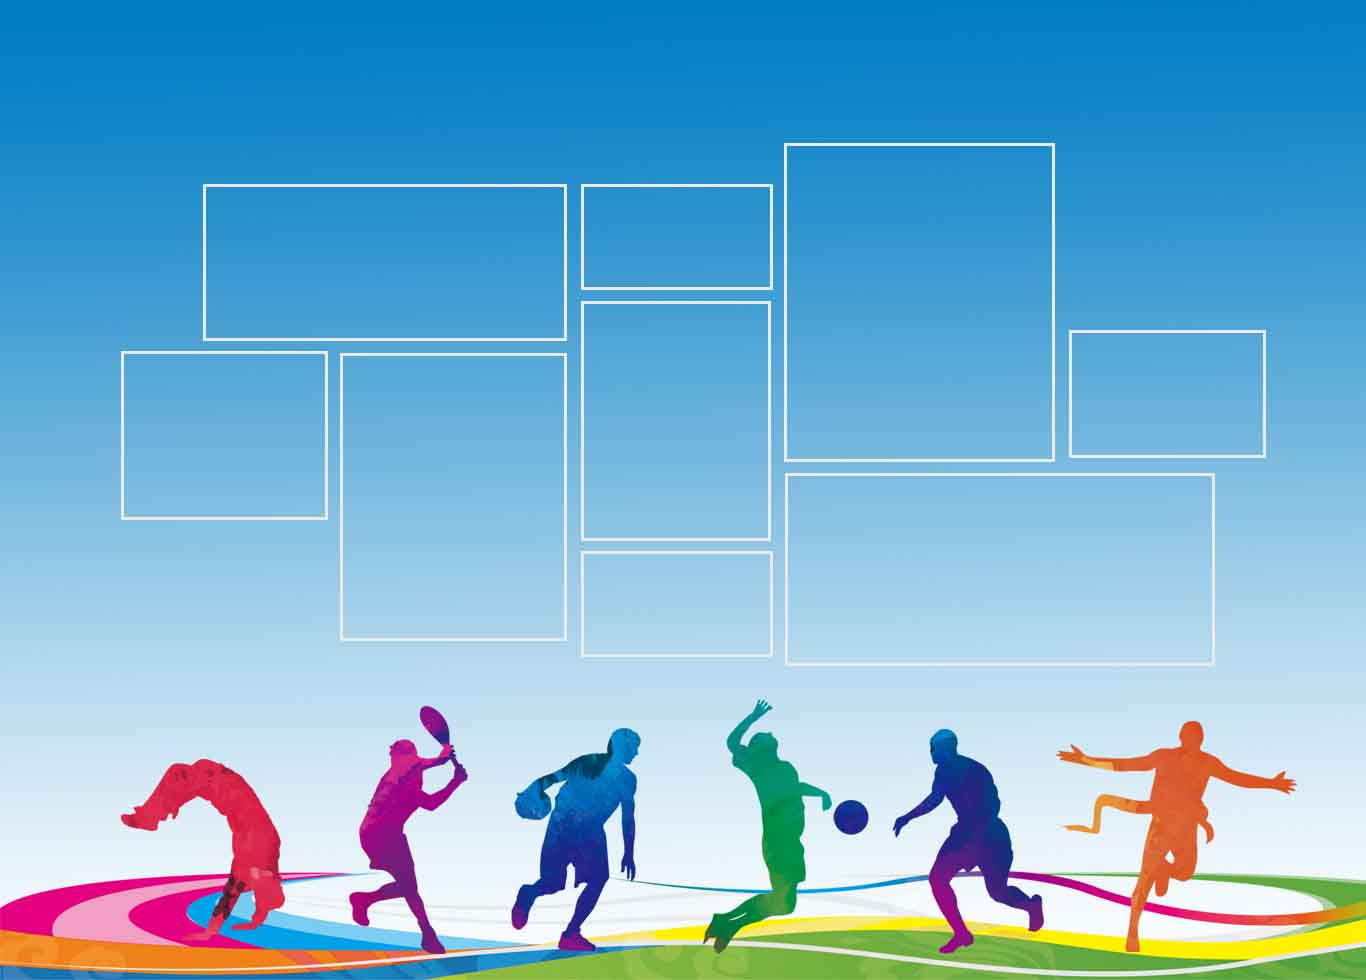
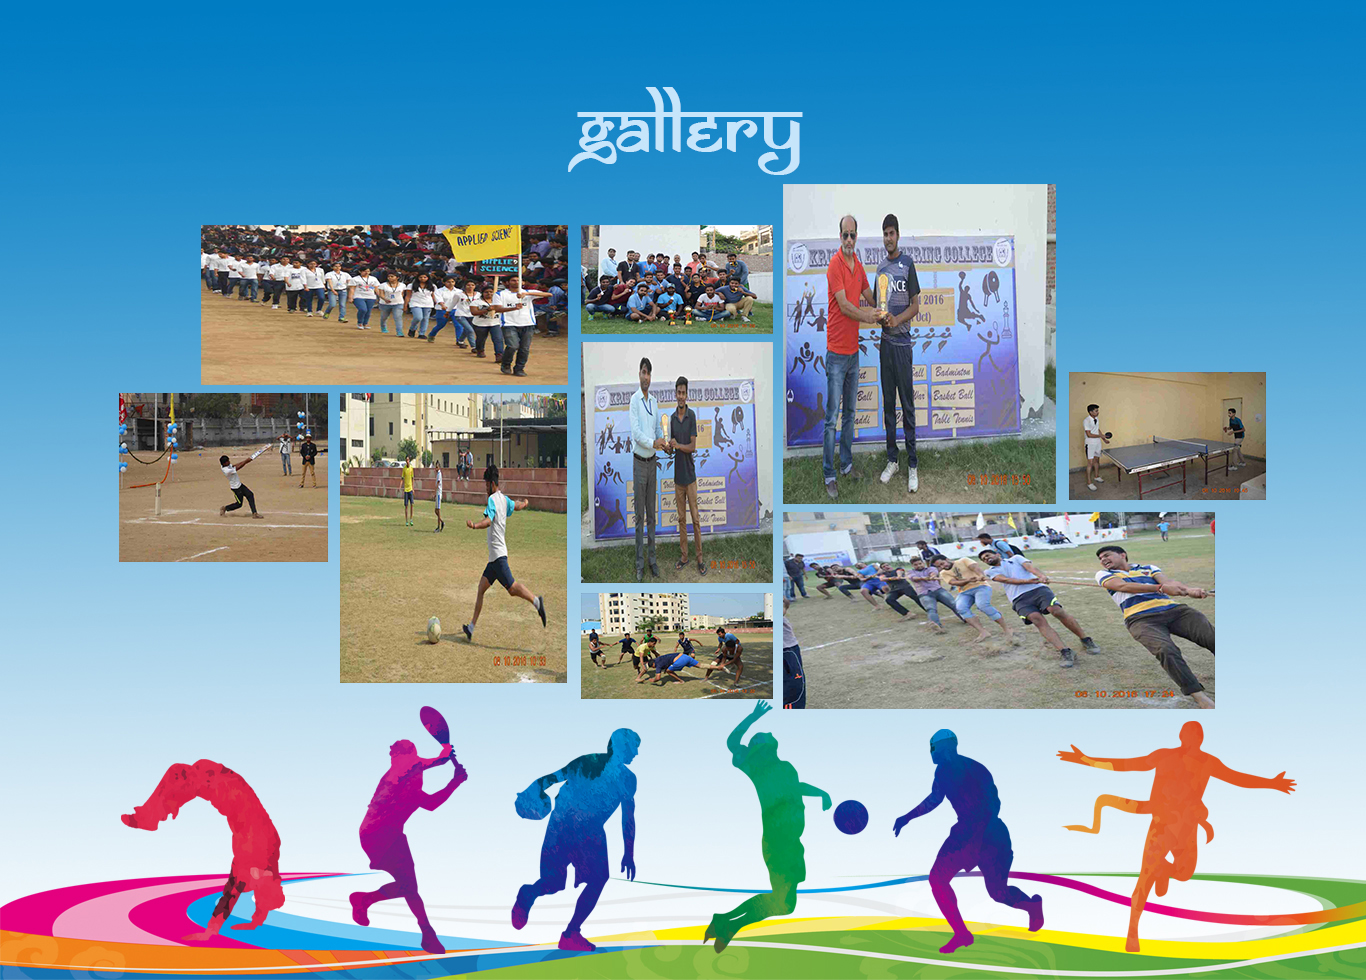
gallery

diff --git a/main/infinito/index.html b/main/infinito/index.html
@@ -31,7 +31,7 @@
 		    <ul class="right hide-on-med-and-down">
 		    	<li><a href="#home">Home</a></li>
 		    	<li><a href="#about">About Us</a></li>
-		    	<li><a href="#gallery">Gallery</a></li>
+		    	<li><a href="#galleryimage">Gallery</a></li>
 				<li><a href="events.html">Events</a></li>
 				<li><a href="rules.html">Rules</a></li>
 		    	<li><a href="contact.html">Contact</a></li>
@@ -41,7 +41,7 @@
 		    <ul class="side-nav" id="mobile-demo">
 		    	<li><a href="#home">Home</a></li>
 		    	<li><a href="#about">About Us</a></li>
-		    	<li><a href="gallery">Gallery</a></li>
+		    	<li><a href="#galleryimage">Gallery</a></li>
 				<li><a href="events.html">Events</a></li>
 				<li><a href="rules.html">Rules</a></li>
 		    	<li><a href="contact.html">Contact</a></li>
@@ -109,19 +109,9 @@
 
 </section>
 
-<section id="galleryimage">
-	
-	<div class="row">
-		<div class="col-md-5">
-		
-		</div>
-		<div class="col-md-2">
-		
-		</div>
-		<div class="col-md-5">
-		
-		</div>
-	</div>
+<section id="gallery">
+
+<div id="galleryimage"></div>	
 	
 
 </section>

diff --git a/main/infinito/css/styles.css b/main/infinito/css/styles.css
@@ -40,13 +40,19 @@ body a:hover{
 	padding:20px;
 	border-radius:40px;
 }
+#about{
+	margin-bottom: 0;
+}
 #about h2{
 	margin-top: 50px;
 	font-size: 55px;
 	font-family: helvetica, sans-serif;
 }
+#gallery{
+	margin-top: 0;
+}
 #gallery h2{
-	margin-top: 60px;
+	margin-top: 0;
 	font-size: 55px;
 	font-family: helvetica, sans-serif;
 }
